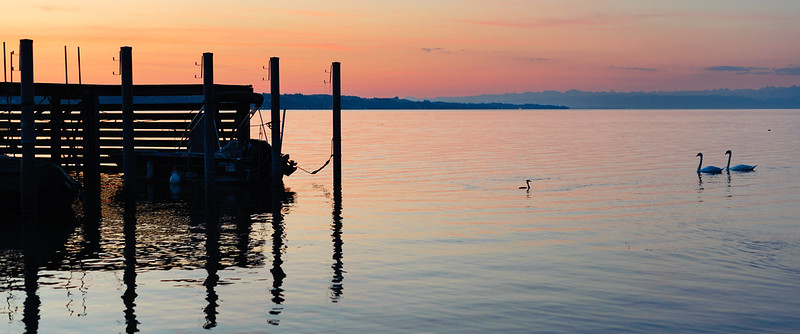
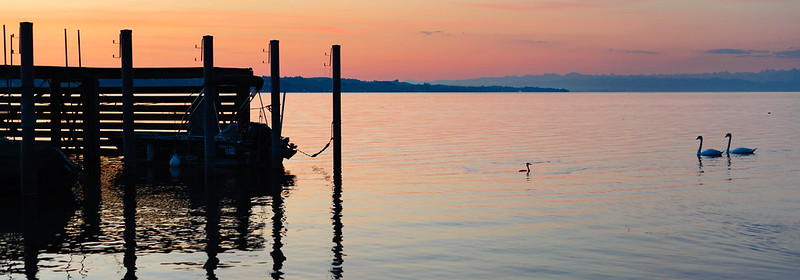
update

diff --git a/ai2022-program.html b/ai2022-program.html
@@ -64,7 +64,7 @@
 
 <div align="justify">
 
-    <img style="width: 740px;" alt="" src="ai-lake.jpeg" hspace="25" vspace="25">
+    <img style="width: 740px;" alt="" src="swan-lake.jpeg" hspace="25" vspace="25">
       <!-- <p style="text-align:right;"><small>Evolution Lake, California, USA</small></p>-->
     
     

diff --git a/ai2022.html b/ai2022.html
@@ -65,7 +65,7 @@
 
 <div align="justify">
 
-    <img style="width: 740px;" alt="" src="ai-lake.jpeg" hspace="25" vspace="25">
+    <img style="width: 740px;" alt="" src="swan-lake.jpeg" hspace="25" vspace="25">
       <!-- <p style="text-align:right;"><small>Evolution Lake, California, USA</small></p>-->
     
     
